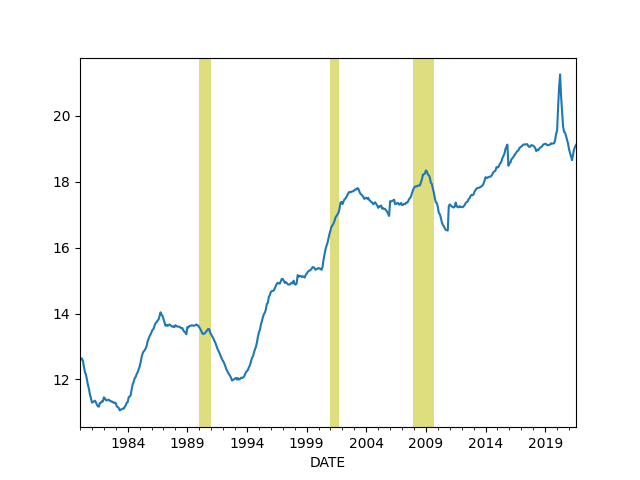
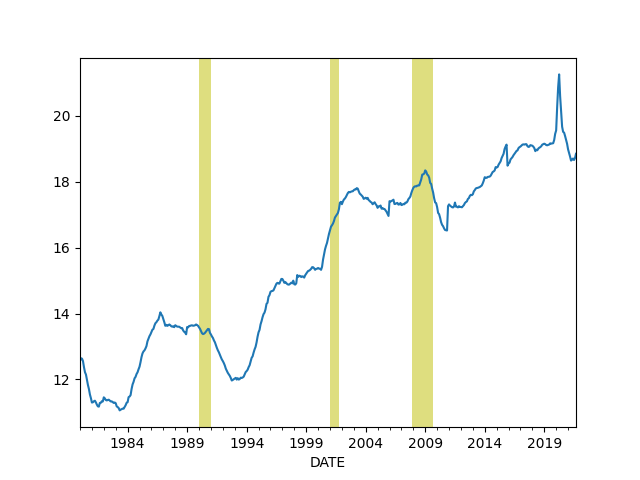
-

diff --git a/en/2019/05/stats.md b/en/2019/05/stats.md
@@ -849,10 +849,10 @@ print (df['Credit to GDP'].tail(4))
 
 ```text
 DATE
-2020-07-01    183.161306
 2020-10-01    182.995195
 2021-01-01    182.549889
 2021-04-01    179.603058
+2021-07-01    178.709111
 Freq: QS-OCT, Name: Credit to GDP, dtype: float64
 ```
 
@@ -884,15 +884,14 @@ plt.savefig('debt.png')
 
 ```text
 DATE
-2021-05-01    18.807428
-2021-06-01    18.975345
-2021-07-01    19.051306
-2021-08-01    19.114535
+2021-06-01    18.702844
+2021-07-01    18.658083
+2021-08-01    18.717458
+2021-09-01    18.846541
 Freq: MS, Name: debt, dtype: float64
 ```
 
 ![](debt.png)
-
 
 <a name="gini"/>
 
